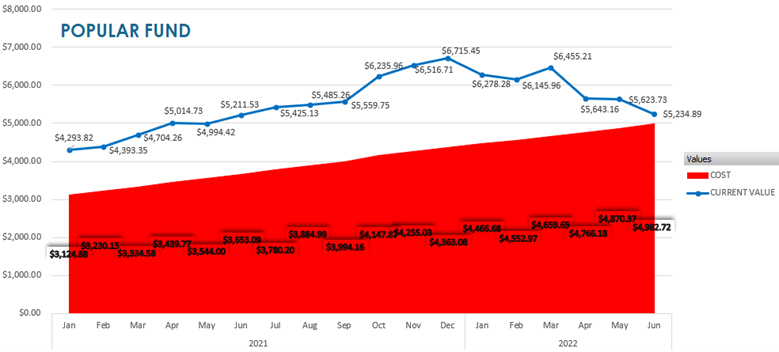
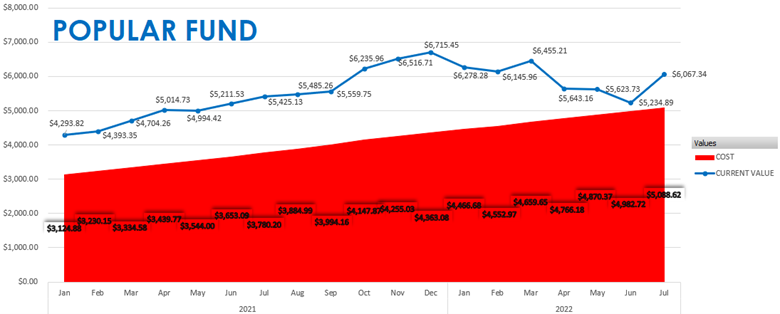
Updated Homepage
Updated homepage with July 2022 month-end information.

Also working on fixing the Bloomberg Logo and Yahoo Finance logo so they are visible on website.

diff --git a/HomePage.html b/HomePage.html
@@ -66,10 +66,10 @@
     <div class="slider">
         <div class="slide-track">
             <div class="slide">
-                <a href="https://www.bloomberg.com/markets/" target="_blank">
-                    <img src="https://logosdownload.com/logo/bloomberg-logo-big.png"/>
+                <a href="https://www.bloomberg.com" rel="noopener noreferrer" target="_blank">
+                    <img src="https://cdn.cdnlogo.com/logos/b/97/bloomberg.png"></a>
                 <div class="image__overlay">
-                    <a href="https://www.bloomberg.com/markets/" style="text-decoration:none" rel="noopener noreferrer" target="_blank">Provides in-depth coverage of global financial markets for finance professionals.</a>
+                    <a href="https://www.bloomberg.com" style="text-decoration:none" rel="noopener noreferrer" target="_blank">Provides in-depth coverage of global financial markets for finance professionals.</a>
                 </div>
             </div>
             
@@ -115,7 +115,7 @@
 
             <div class="slide">
                 <a href="https://finance.yahoo.com/" rel="noopener noreferrer" target="_blank">
-                    <img src="https://upload.wikimedia.org/wikipedia/commons/d/da/Yahoo_Finance_Logo_2019.svg"/></a>
+                    <img src="https://cdn.cdnlogo.com/logos/y/82/yahoo.svg"></a>
                 <div class="image__overlay">
                     <a href="https://finance.yahoo.com/" style="text-decoration:none" rel="noopener noreferrer" target="_blank">Financial news, data and commentary including stock quotes, press releases, financial reports, and original content.</a>
                 </div>
@@ -123,10 +123,10 @@
 
             <!-- SAME 7 SLIDES DOUBLED -->
             <div class="slide">
-                <a href="https://www.bloomberg.com/markets/" target="_blank">
-                    <img src="https://logosdownload.com/logo/bloomberg-logo-big.png"/>
+                <a href="https://www.bloomberg.com" rel="noopener noreferrer" target="_blank">
+                    <img src="https://cdn.cdnlogo.com/logos/b/97/bloomberg.png"></a>
                 <div class="image__overlay">
-                    <a href="https://www.bloomberg.com/markets/" style="text-decoration:none" rel="noopener noreferrer" target="_blank">Provides in-depth coverage of global financial markets for finance professionals.</a>
+                    <a href="https://www.bloomberg.com" style="text-decoration:none" rel="noopener noreferrer" target="_blank">Provides in-depth coverage of global financial markets for finance professionals.</a>
                 </div>
             </div>
             
@@ -172,7 +172,7 @@
 
             <div class="slide">
                 <a href="https://finance.yahoo.com/" rel="noopener noreferrer" target="_blank">
-                    <img src="https://cdn.cdnlogo.com/logos/y/63/yahoo.svg"></a>
+                    <img src="https://cdn.cdnlogo.com/logos/y/82/yahoo.svg"></a>
                 <div class="image__overlay">
                     <a href="https://finance.yahoo.com/" style="text-decoration:none" rel="noopener noreferrer" target="_blank">Financial news, data and commentary including stock quotes, press releases, financial reports, and original content.</a>
                 </div>
